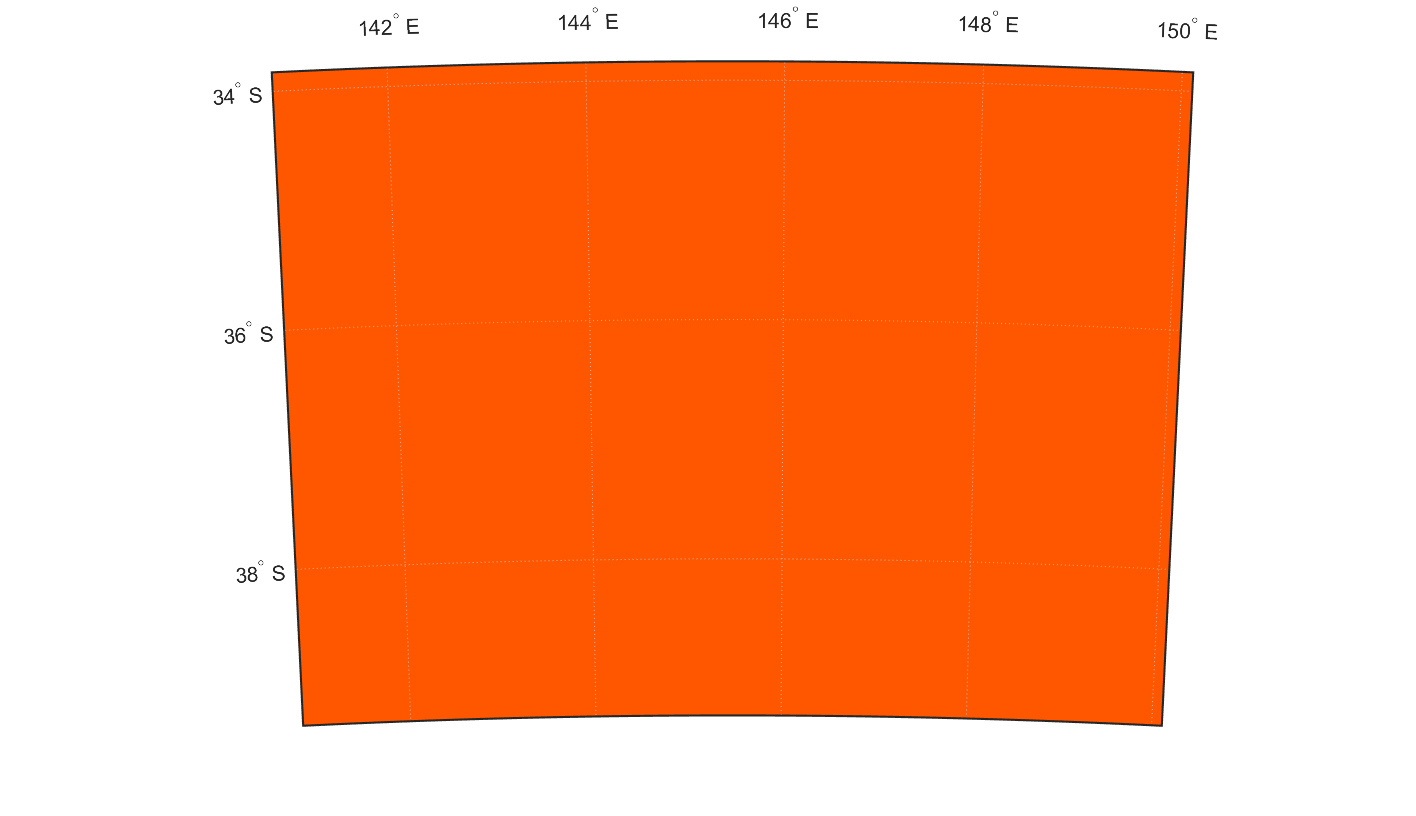
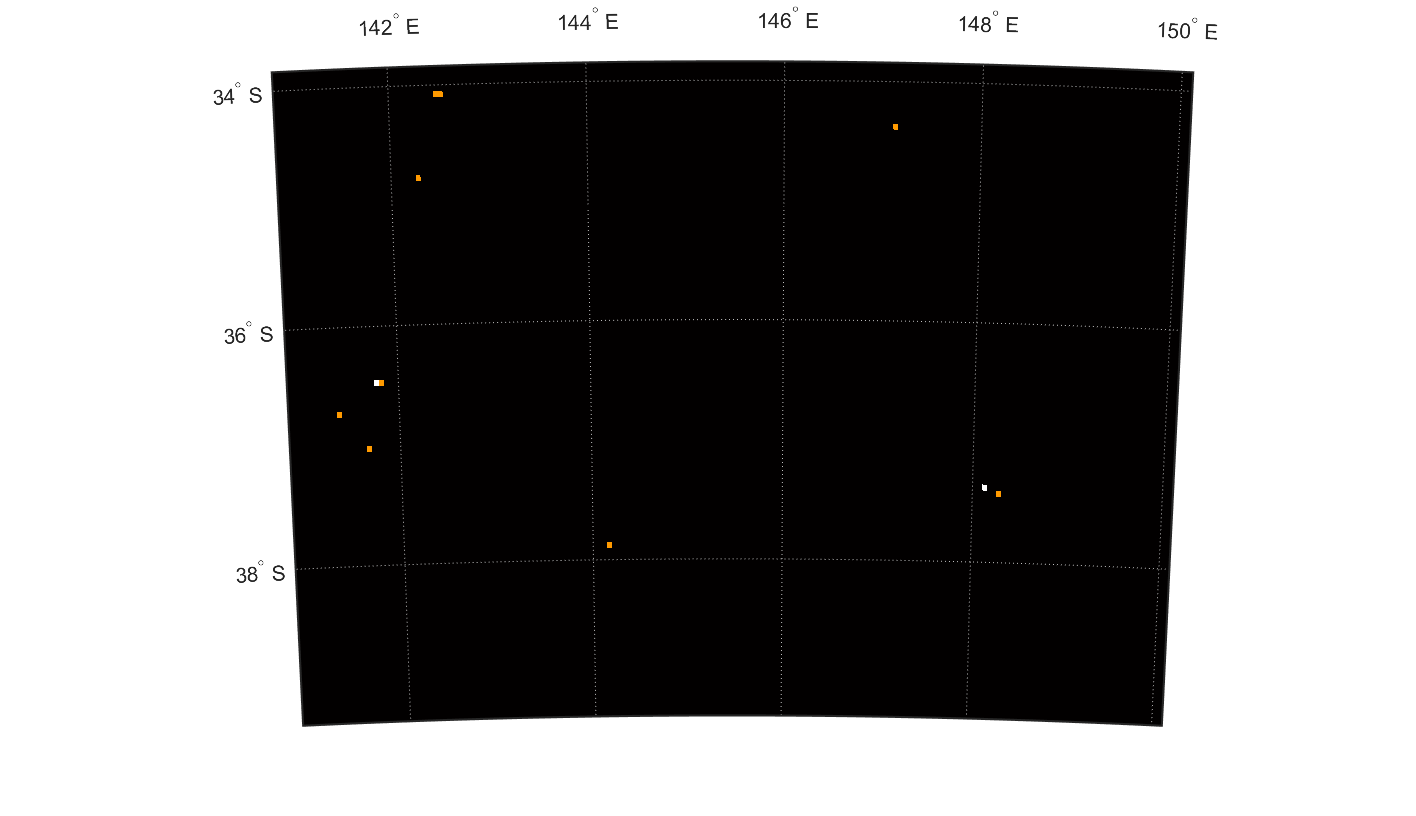
upload matlab code

diff --git a/Data/PreProcessing/heats.m b/Data/PreProcessing/heats.m
@@ -1,0 +1,28 @@
+clc
+for years=2003:2020
+    for mouths=1:12
+        result=readmatrix("Monthly\modis_"+int2str(years)+"_"+int2str(mouths)+"_Australia.csv");
+
+        heat=ones(size(Z,1),size(Z,2));
+        BS_lon=result(:,3);
+        BS_lat=result(:,2);
+        [row,col]=geographicToDiscrete(R,BS_lat,BS_lon);
+        num_result=numel(row); %将经纬度值转换为网格的行列号，
+        row_na=isnan(row);
+        for i=1:num_result
+            if row_na(i)==0
+                heat(row(i),col(i))=heat(row(i),col(i))+1;
+            end
+        end
+
+
+        kk=figure;
+        kk.Visible=false;
+        kk.Position(3:4)=[185 109];
+        worldmap(Z,R);
+        meshm(sqrt(sqrt(heat)),R);
+        colormap('hot');
+        saveas(kk,"Pic\modis_"+int2str(years)+"_"+int2str(mouths)+"_Australia.png")
+
+    end
+end
